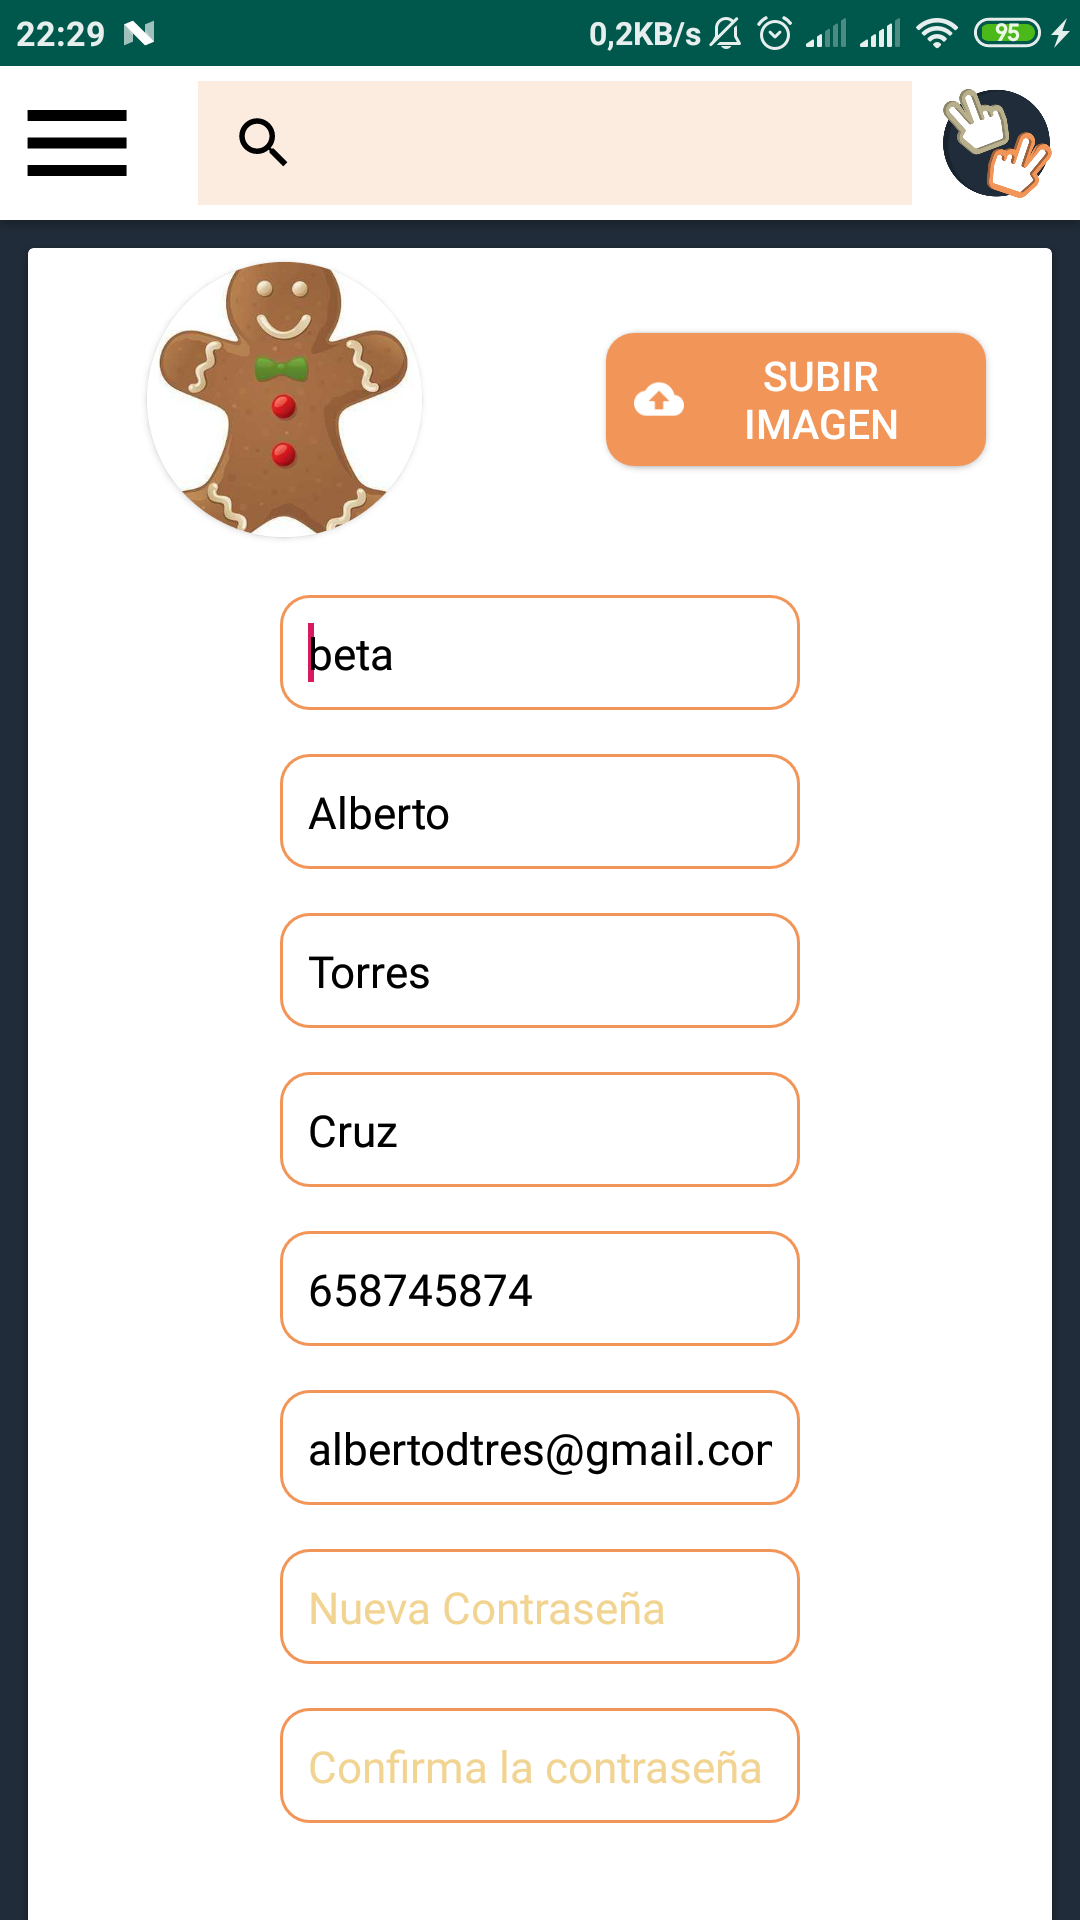
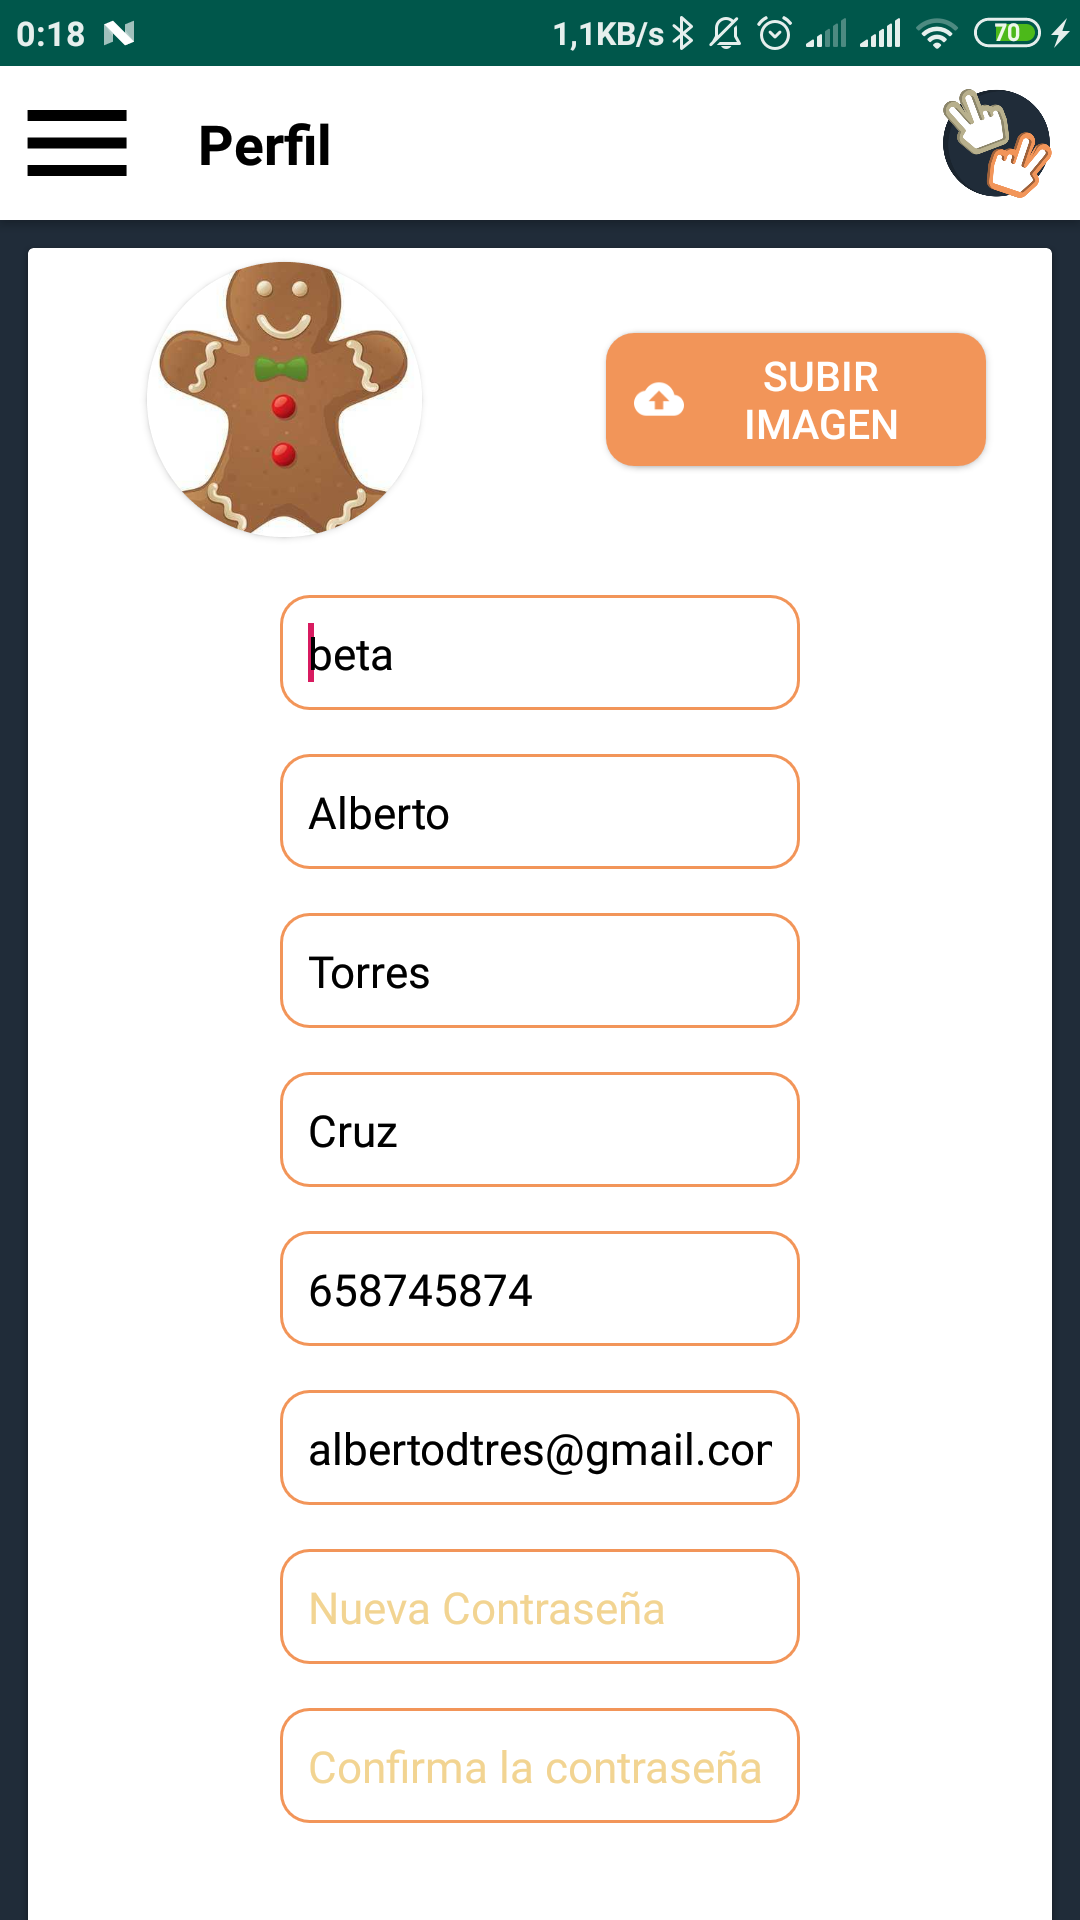
Cambios en el readme

diff --git a/readme.md b/readme.md
@@ -10,87 +10,175 @@
 ---
   
 # ¿Cómo funciona SecondLife?:
-## Pantalla principal
-Nada más acceder a la aplicación podemos ver la pantalla de inicio de sesión junto con la opción de registrarse. Esta pantalla es totalmente opcional ya que hemos considerado que podemos tener un usuario "Invitado" sin una cuenta aún, por lo que podemos cerrar esta ventana si deseamos en la esquina superior derecha.
 
-<p align="center">
-    <img src="docs/Manual/login.png" width="300">
-</p>
+## Splash Screen
+Nada más acceder a la aplicación podemos ver un bonito splash screen que aparecerá apenas unos segundos con el logotipo creado por nosotros para nuestro proyecto.
+
+<table align="center">
+    <tr>
+        <td>
+            <img src="docs/Vistas/splash.png" width="185">
+            <p>Idea incial con photoshop</p>
+        </td>
+        <td>
+            <img src="docs/Manual/splashScreen.png" width="200">
+            <p>Resultado final</p>
+        </td>
+    </tr>
+<table>
+
+
+## Pantalla principal
+Una vez visto el splash screen podremos ver la pantalla de inicio de sesión junto con la opción de registrarse. Esta pantalla es totalmente opcional ya que hemos considerado que podemos tener un usuario "Invitado" sin una cuenta aún, por lo que podemos cerrar esta ventana si deseamos en la esquina superior derecha.
+
+<table align="center">
+    <tr>
+        <td>
+            <img src="docs/Vistas/login.png" width="185">
+            <p>Idea incial con photoshop</p>
+        </td>
+        <td>
+            <img src="docs/Manual/login.png" width="200">
+            <p>Resultado final</p>
+        </td>
+    </tr>
+<table>
+
 
 ## Registro
 En caso de que deseemos una nueva cuenta, solo tendremos que pulsar en "Registrarme" y nos saldrá la siguiente pantalla donde nos pedirá los datos iniciales. Todos no son necesarios, en este caso el teléfono y el segundo apellido es opcional.
 
 <p align="center">
-    <img src="docs/Manual/registro.png" width="300">
+    <img src="docs/Manual/registro.png" width="200">
 </p>
 
 ## Usuario invitado
 Como comentábamos antes, podemos acceder sin tener ningún usuario, en este caso en el "Navigation drawer" del que dispone la aplicación, podremos ver un acceso directo a "Iniciar sesión" por si nos lo hemos pensado mejor, una foto genérica en la cabecera, y de nombre simplemente "Invitado". También podemos acceder a las categorías de los anuncios sin necesidad de cuenta.
 
 <p align="center">
-    <img src="docs/Manual/principal.png" width="300">
+    <img src="docs/Manual/principal.png" width="200">
 </p>
 
 ## Usuario registrado
-En caso de que tengamos una cuenta iniciada sesión, nos saldrá en el "Navigation drawer" una sección de "Cuenta". En ella dispondremos de un acceso directo a nuestro perfil, donde podremos editar los datos personales y la imagen de la cuenta en la que hemos iniciado. Además tenemos un botón "Cerrar sesión, el cual nos permitirá acceder como otro usuario diferente o simplemente quedarnos como "Invitado". Por otra parte, en la cabecera ya si disponemos de nuestros datos personales como nombre, apellidos, email y foto de perfil.
+En caso de que tengamos una cuenta iniciada sesión, nos saldrá en el "Navigation drawer" una sección de "Cuenta". En ella dispondremos de un acceso directo a nuestro perfil, donde podremos editar los datos personales y la imagen de la cuenta en la que hemos iniciado. También dispondremos de un "Engranaje" en la parte derecha del nombre de usuario para acceder al mismo menú que pulsando "Mi perfil". Además tenemos un botón "Cerrar sesión, el cual nos permitirá acceder como otro usuario diferente o simplemente quedarnos como "Invitado". Por otra parte, en la cabecera ya si disponemos de nuestros datos personales como nombre, apellidos, email y foto de perfil.
 
-<p align="center">
-    <img src="docs/Manual/usuarioIniciado.png" width="300">
-</p>
+<table align="center">
+    <tr>
+        <td>
+            <img src="docs/Vistas/sidebar.png" width="185">
+            <p>Idea incial con photoshop</p>
+        </td>
+        <td>
+            <img src="docs/Manual/usuarioIniciado.png" width="200">
+            <p>Resultado final</p>
+        </td>
+    </tr>
+<table>
 
 ## Perfil de usuario
-Si accedemos mediante el acceso directo de "Perfil" nos saldrá la siguiente pantalla, en la cual podremos modificar todos los datos, incluso modificar la contraseña actual de la cuenta. En caso de que no queramos modificar la contraseña, la podemos dejar en blanco, y seguir cambiando algun campo en concreto que deseemos modificar. También disponemos de un botón que podemos reconocer como "Subir imagen", en el cual seleccionaremos un archivo de la galería de nuestro dispositivo y nos cambiará la imagen del perfil
+Si accedemos mediante el acceso directo de "Perfil" nos saldrá la siguiente pantalla, en la cual podremos modificar todos los datos, incluso modificar la contraseña actual de la cuenta. En caso de que no queramos modificar la contraseña, la podemos dejar en blanco, y seguir cambiando algun campo en concreto que deseemos modificar. Si nos fijamos el campo de búsqueda del toolbar ha cambiado y ahora hay un texto que pone "Perfil". También disponemos de un botón que podemos reconocer como "Subir imagen", en el cual seleccionaremos un archivo de la galería de nuestro dispositivo y nos cambiará la imagen del perfil.
 
-<p align="center">
-    <img src="docs/Manual/editarPerfil.png" width="300">
-</p>
+<table align="center">
+    <tr>
+        <td>
+            <img src="docs/Vistas/perfil.png" width="185">
+            <p>Idea incial con photoshop</p>
+        </td>
+        <td>
+            <img src="docs/Manual/editarPerfil.png" width="200">
+            <p>Resultado final</p>
+        </td>
+    </tr>
+<table>
 
 ## Perfil de usuario II
-Seguimos en la misma pantalla, pero esta vez la hemos bajado un poco, ya que dispone de un scrollview para que se adapte a la mayoría de dispositivos. Al final de esta ventana podemos observar 2 botones. Uno de ellos "Guardar" para que se hagan efectivos los cambios anteriores en nuestros datos personales, y otro "Borrar cuenta", para estar al tanto de la ley de protección de datos. Un usuario puede solicitar mediante este botón que se borren sus datos de inmediato. Posteriormente se cerrará la sesión y se quedará como "Invitado"
+Seguimos en la misma pantalla, pero esta vez la hemos bajado un poco, ya que dispone de un scrollview para que se adapte a la mayoría de dispositivos. Al final de esta ventana podemos observar 2 botones. Uno de ellos "Guardar" para que se hagan efectivos los cambios anteriores en nuestros datos personales, y otro "Borrar cuenta", para estar al tanto de la ley de protección de datos. Un usuario puede solicitar mediante este botón que se borren sus datos de inmediato. Posteriormente se cerrará la sesión y se quedará como "Invitado".
 
-<p align="center">
-    <img src="docs/Manual/borrarCuenta.png" width="300">
-</p>
+<table align="center">
+    <tr>
+        <td>
+            <img src="docs/Vistas/perfil.png" width="185">
+            <p>Idea incial con photoshop</p>
+        </td>
+        <td>
+            <img src="docs/Manual/borrarCuenta.png" width="200">
+            <p>Resultado final</p>
+        </td>
+    </tr>
+<table>
 
 ## Productos y categorias 
 Una vez tenemos usuarios nos falta algo con que interactuar, en este caso con productos y categorías. Como hemos visto en el "Navigation Drawer", en el que podemos acceder en el botón superior izquierdo, tenemos varias categorías de productos. Si queremos podemos filtrarlos por nombre y descripción en la barra de búsqueda que se sitúa en la parte superior. Además podemos observar como tenemos un botón "FAB" en la parte inferior derecha para añadir nuestros propios productos.
 
-<p align="center">
-    <img src="docs/Manual/busqueda.png" width="300">
-</p>
+<table align="center">
+    <tr>
+        <td>
+            <img src="docs/Vistas/home.png" width="185">
+            <p>Idea incial con photoshop</p>
+        </td>
+        <td>
+            <img src="docs/Manual/listaProductosHome.png" width="200">
+            <p>Resultado final</p>
+        </td>
+        <td>
+            <img src="docs/Manual/busqueda.png" width="200">
+            <p>Resultado final</p>
+        </td>
+    </tr>
+<table>
+
 
 ## Nuevos productos 
-En la lista de productos nos hemos dado cuenta que tenemos un botón como hemos comentado en el anterior punto, que nos permitirá añadir nuevos productos. Como podemos ver en la siguiente imagen, ya tenemos rellenos los datos del nuevo producto, que seria el titulo, descripción, categoría, precio y una lista de imágenes. Automáticamente este producto se vincula a la cuenta en la que hemos iniciado sesión. Por último comentar que podemos añadir varias imágenes y la página se va redimensionando automáticamente (esto lo veremos posteriormente).
+En la lista de productos nos hemos dado cuenta que tenemos un botón como hemos comentado en el anterior punto, que nos permitirá añadir nuevos productos. Como podemos ver en la siguiente imagen, ya tenemos rellenos los datos del nuevo producto, que seria el titulo, descripción, categoría, precio y una lista de imágenes. Automáticamente este producto se vincula a la cuenta en la que hemos iniciado sesión. Además si nos fijamos de nuevo en el toolbar ha cambiado por el titulo "Nuevo producto". Por último comentar que podemos añadir varias imágenes y la página se va redimensionando automáticamente (esto lo veremos posteriormente).
 
-<p align="center">
-    <img src="docs/Manual/nuevoProducto.png" width="300">
-</p>
+<table align="center">
+    <tr>
+        <td>
+            <img src="docs/Vistas/añadirProducto.png" width="185">
+            <p>Idea incial con photoshop</p>
+        </td>
+        <td>
+            <img src="docs/Manual/nuevoProducto.png" width="200">
+            <p>Resultado final</p>
+        </td>
+    </tr>
+<table>
+
 
 ## Mis productos
 Anteriormente no hemos podido ver el detalle de "Mis anuncios" que tiene el "Navigation drawer" justo abajo. Podemos entrar en esta pantalla para ver nuestros anuncios publicados.
 
 <p align="center">
-    <img src="docs/Manual/sidebar.png" width="300">
+    <img src="docs/Manual/sidebar.png" width="200">
 </p>
 
 ## Detalle de producto
 Al pulsar sobre cualquier producto podremos ver el detalle de este, con fotos, titulo, descripción e incluso un contador de visitas. Obviamente solo podremos editarlo si lo hemos publicado, mediante el botón inferior "Editar" que veremos a continuación.
 
 <p align="center">
-    <img src="docs/Manual/detalleProducto.png" width="300">
+    <img src="docs/Manual/detalleProducto.png" width="200">
 </p>
 
 ## Editar un producto
 Seguramente queramos actualizar algún dato del producto que hemos publicado, por lo que tenemos la vista de editar, en la que como podemos ver y anteriormente hemos comentado, se pueden añadir múltiples imágenes.
 
-<p align="center">
-    <img src="docs/Manual/editarProducto.png" width="300">
-</p>
+<table align="center">
+    <tr>
+        <td>
+            <img src="docs/Vistas/editarProducto.png" width="185">
+            <p>Idea incial con photoshop</p>
+        </td>
+        <td>
+            <img src="docs/Manual/editarProducto.png" width="200">
+            <p>Resultado final</p>
+        </td>
+    </tr>
+<table>
 
 ## Lista productos
 Ya podemos ver nuestro anuncio publicado, esperando al comprador correcto, dentro de la lista de anuncios.
 <p align="center">
-    <img src="docs/Manual/listaProductos.png" width="300">
+    <img src="docs/Manual/listaProductos.png" width="200">
 </p>
 
 # Servidor de SecondLife
